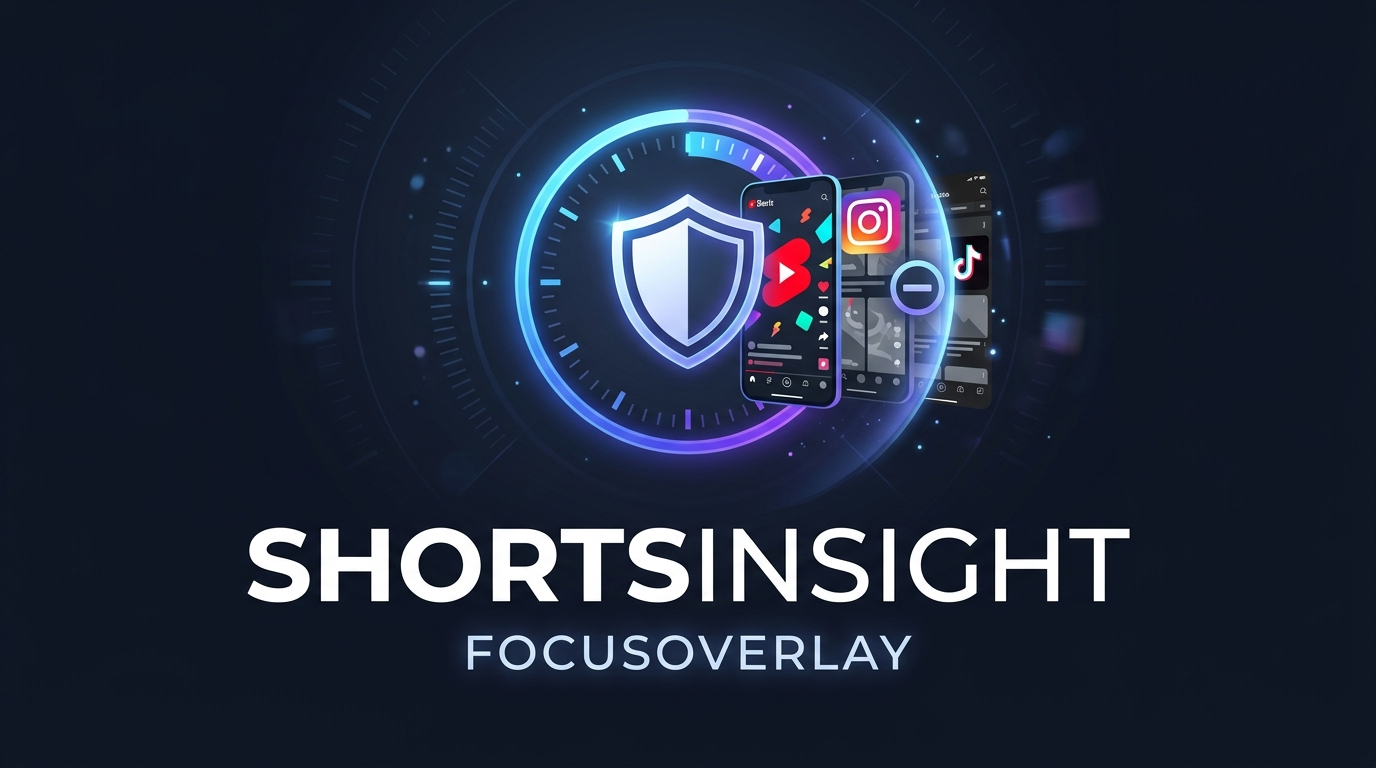
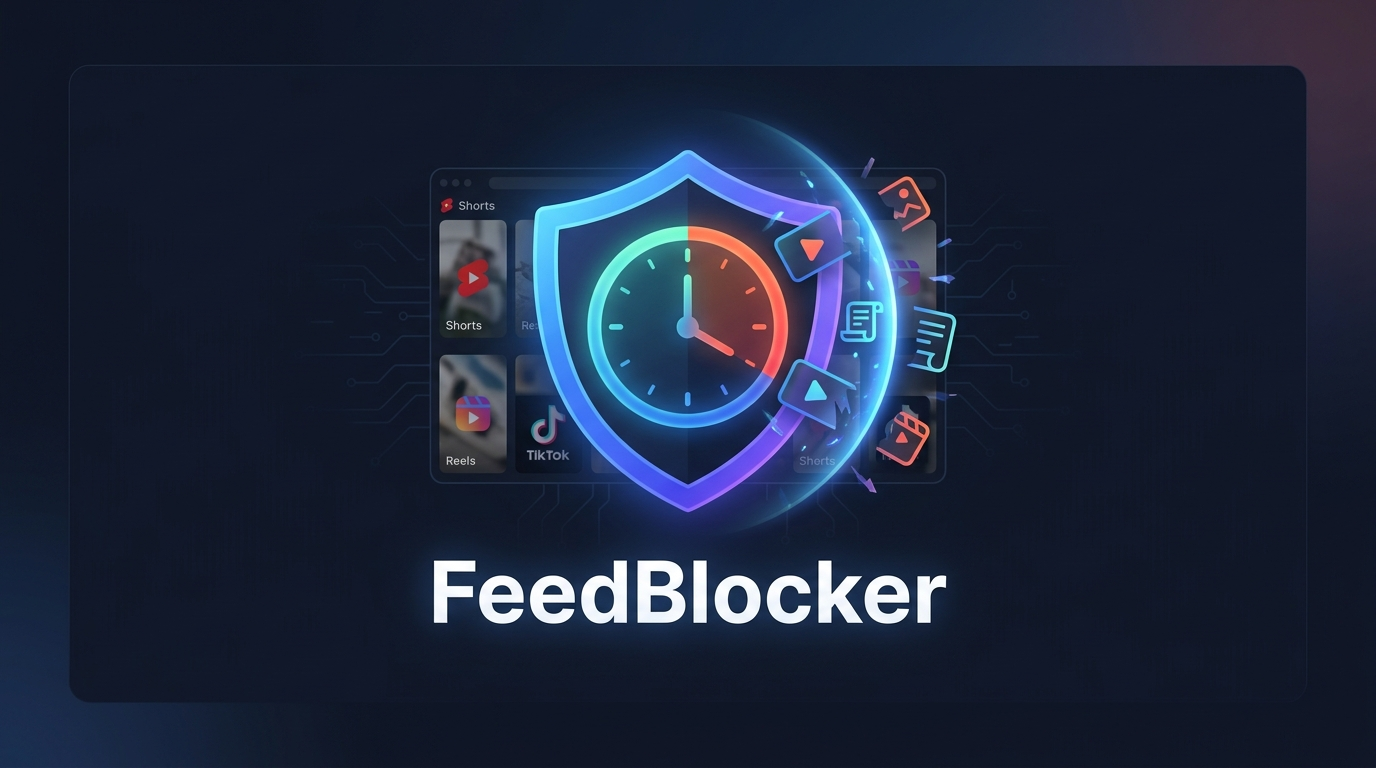
feat: rebrand project to FeedBlocker and implement core options, onboarding, and component architecture

Changed region(s): [[0.1562, 0.0938, 0.8438, 0.875], [0.6875, 0.0, 1.0, 0.3125], [0.0, 0.7188, 0.1562, 1.0]]

diff --git a/src/onboarding/index.tsx b/src/onboarding/index.tsx
@@ -8,13 +8,13 @@ const STEPS = [
     {
         id: 'welcome',
         title: 'Take back your time.',
-        body: 'FocusOverlay tracks how long you spend on YouTube, Instagram, TikTok, and 6 more sites — then cuts you off when you hit your limit. No account. No cloud. All data stays on your machine.',
+        body: 'FeedBlocker tracks how long you spend on YouTube, Instagram, TikTok, and 6 more sites — then cuts you off when you hit your limit. No account. No cloud. All data stays on your machine.',
         cta: 'Get started →',
     },
     {
         id: 'pin',
         title: 'Pin the extension.',
-        body: 'Click the puzzle icon in your Chrome toolbar, then pin FocusOverlay. You\'ll see today\'s total minutes right in the toolbar badge.',
+        body: 'Click the puzzle icon in your Chrome toolbar, then pin FeedBlocker. You\'ll see today\'s total minutes right in the toolbar badge.',
         cta: 'Done, continue →',
     },
     {
@@ -124,7 +124,7 @@ const OnboardingPage = () => {
                 </button>
 
                 <p style={{ marginTop: '20px', fontSize: '12px', color: 'var(--c-subtle)' }}>
-                    FocusOverlay — all data stored locally. No account required.
+                    FeedBlocker — all data stored locally. No account required.
                 </p>
             </article>
         </main>

diff --git a/src/options/OptionsApp.tsx b/src/options/OptionsApp.tsx
@@ -25,7 +25,7 @@ export const OptionsApp = () => {
 
     const exportCsv = async () => {
         const csv = await StorageService.exportUsageCsv();
-        downloadCsv(`focusoverlay-${new Date().toISOString().slice(0, 10)}.csv`, csv);
+        downloadCsv(`FeedBlocker-${new Date().toISOString().slice(0, 10)}.csv`, csv);
     };
 
     const resetToday = async () => {
@@ -39,7 +39,7 @@ export const OptionsApp = () => {
         <div className="options-root">
             <header className="options-header">
                 <Logo size={22} className="options-logo-mark" />
-                <span className="options-title">FocusOverlay</span>
+                <span className="options-title">FeedBlocker</span>
                 <span className="options-subtitle">All data is stored locally — nothing leaves your browser.</span>
             </header>
 

diff --git a/src/popup/index.tsx b/src/popup/index.tsx
@@ -14,7 +14,7 @@ const Popup = () => {
             <header className="popup-header">
                 <div className="popup-logo">
                     <Logo size={20} className="popup-logo-mark" />
-                    <span className="popup-logo-name">FocusOverlay</span>
+                    <span className="popup-logo-name">FeedBlocker</span>
                 </div>
                 <button
                     type="button"

diff --git a/src/components/ErrorBoundary.tsx b/src/components/ErrorBoundary.tsx
@@ -17,7 +17,7 @@ export class ErrorBoundary extends Component<Props, State> {
     }
 
     componentDidCatch(error: Error, info: ErrorInfo) {
-        console.error('FocusOverlay UI error:', error, info.componentStack);
+        console.error('FeedBlocker UI error:', error, info.componentStack);
     }
 
     render() {

diff --git a/onboarding.html b/onboarding.html
@@ -3,7 +3,7 @@
 <head>
   <meta charset="UTF-8" />
   <meta name="viewport" content="width=device-width, initial-scale=1.0" />
-  <title>Welcome to FocusOverlay</title>
+  <title>Welcome to FeedBlocker</title>
   <script type="module" src="src/onboarding/index.tsx"></script>
 </head>
 <body>

diff --git a/blocked.html b/blocked.html
@@ -3,7 +3,7 @@
   <head>
     <meta charset="UTF-8" />
     <meta name="viewport" content="width=device-width, initial-scale=1.0" />
-    <title>Limit reached — FocusOverlay</title>
+    <title>Limit reached — FeedBlocker</title>
   </head>
   <body>
     <div id="root"></div>

diff --git a/options.html b/options.html
@@ -3,7 +3,7 @@
   <head>
     <meta charset="UTF-8" />
     <meta name="viewport" content="width=device-width, initial-scale=1.0" />
-    <title>FocusOverlay Settings</title>
+    <title>FeedBlocker Settings</title>
   </head>
   <body>
     <div id="root"></div>

diff --git a/index.html b/index.html
@@ -3,7 +3,7 @@
   <head>
     <meta charset="UTF-8" />
     <meta name="viewport" content="width=device-width, initial-scale=1.0" />
-    <title>FocusOverlay</title>
+    <title>FeedBlocker</title>
   </head>
   <body>
     <div id="root"></div>

diff --git a/src/components/Overlay.tsx b/src/components/Overlay.tsx
@@ -8,7 +8,7 @@ interface OverlayProps {
     platform?: Platform;
 }
 
-const POSITION_KEY = 'focusOverlayPosition';
+const POSITION_KEY = 'FeedBlockerPosition';
 
 function loadSavedPosition(): { x: number; y: number } | null {
     try {

diff --git a/src/components/Logo.tsx b/src/components/Logo.tsx
@@ -6,7 +6,7 @@ export interface LogoProps {
 }
 
 /**
- * FocusOverlay Logo
+ * FeedBlocker Logo
  * 
  * Design: Combines a shield (protecting your time) with a central 
  * focal point or eye (representing focus and awareness).

diff --git a/README.md b/README.md
@@ -1,7 +1,7 @@
 <div align="center">
-  <img src="docs/assets/banner.jpg" alt="ShortsInsight Banner" width="100%">
+  <img src="docs/assets/banner.jpg" alt="FeedBlocker Banner" width="100%">
 
-  # FocusOverlay 🛡
+  # FeedBlocker 🛡
 
   **Hard limits for distracting sites.**  
   Track real active time, set daily and session caps, and get sent to a blank page when time is up. No snooze, no “just five more minutes.”
@@ -13,13 +13,11 @@
 
 <br />
 
-> 💡 **Note:** This repository is named **ShortsInsight**, but the extension product name is **FocusOverlay**.
-
 ---
 
-## 🎯 Why FocusOverlay?
+## 🎯 Why FeedBlocker?
 
-Most screen-time tools nudge you with soft reminders. FocusOverlay is built for people who need **strict enforcement**:
+Most screen-time tools nudge you with soft reminders. FeedBlocker is built for people who need **strict enforcement**:
 
 - ⏱ **Counts Active Time**: Tracks real interaction (idle-aware, video-aware), not just "tab open".
 - 📊 **Budgets & Bursts**: Set daily limits and session burst caps per site.
@@ -91,8 +89,8 @@ Configure tracking modes per site in the options page to suit your specific focu
 
 ```bash
 # Clone the repository
-git clone https://github.com/TahaUsmanK/Insights.git ShortsInsight
-cd ShortsInsight
+git clone https://github.com/TahaUsmanK/Insights.git FeedBlocker
+cd FeedBlocker
 
 # Install dependencies
 npm install
@@ -198,7 +196,7 @@ npm run preview
 
 ## 🚧 Limitations
 
-FocusOverlay is a browser extension, not OS-level parental control. A motivated user can still:
+FeedBlocker is a browser extension, not OS-level parental control. A motivated user can still:
 - Disable or uninstall the extension
 - Clear extension storage
 - Use another browser or device
@@ -231,5 +229,5 @@ FocusOverlay is a browser extension, not OS-level parental control. A motivated 
 
 <div align="center">
   Built to help reclaim attention from algorithmic feeds — one enforced limit at a time. <br/>
-  <sub>If FocusOverlay helps you, consider starring the repo. ⭐</sub>
+  <sub>If FeedBlocker helps you, consider starring the repo. ⭐</sub>
 </div>

diff --git a/docs/PDD.md b/docs/PDD.md
@@ -1,16 +1,16 @@
-# FocusOverlay — Product Design Document (PDD)
+# FeedBlocker — Product Design Document (PDD)
 
 **Version:** 1.1.0  
 **Last updated:** 2026-05-24  
-**Product name:** FocusOverlay  
-**Repository folder:** ShortsInsight  
+**Product name:** FeedBlocker  
+**Repository folder:** FeedBlocker  
 **Platform:** Chrome Extension (Manifest V3)
 
 ---
 
 ## 1. Executive summary
 
-FocusOverlay is a browser extension that tracks how long a user actively spends on YouTube, Instagram, and X (Twitter). It enforces user-defined **daily** and **session** time limits, optional **scheduled stricter caps** (evenings/weekends), and a **post-block cooldown** that prevents immediately returning to a site. When a limit is exceeded, the tab is redirected to `about:blank` with **no snooze or override**.
+FeedBlocker is a browser extension that tracks how long a user actively spends on YouTube, Instagram, and X (Twitter). It enforces user-defined **daily** and **session** time limits, optional **scheduled stricter caps** (evenings/weekends), and a **post-block cooldown** that prevents immediately returning to a site. When a limit is exceeded, the tab is redirected to `about:blank` with **no snooze or override**.
 
 All usage data is stored locally in `chrome.storage.local`. There is no backend, no accounts, and no mock data.
 
